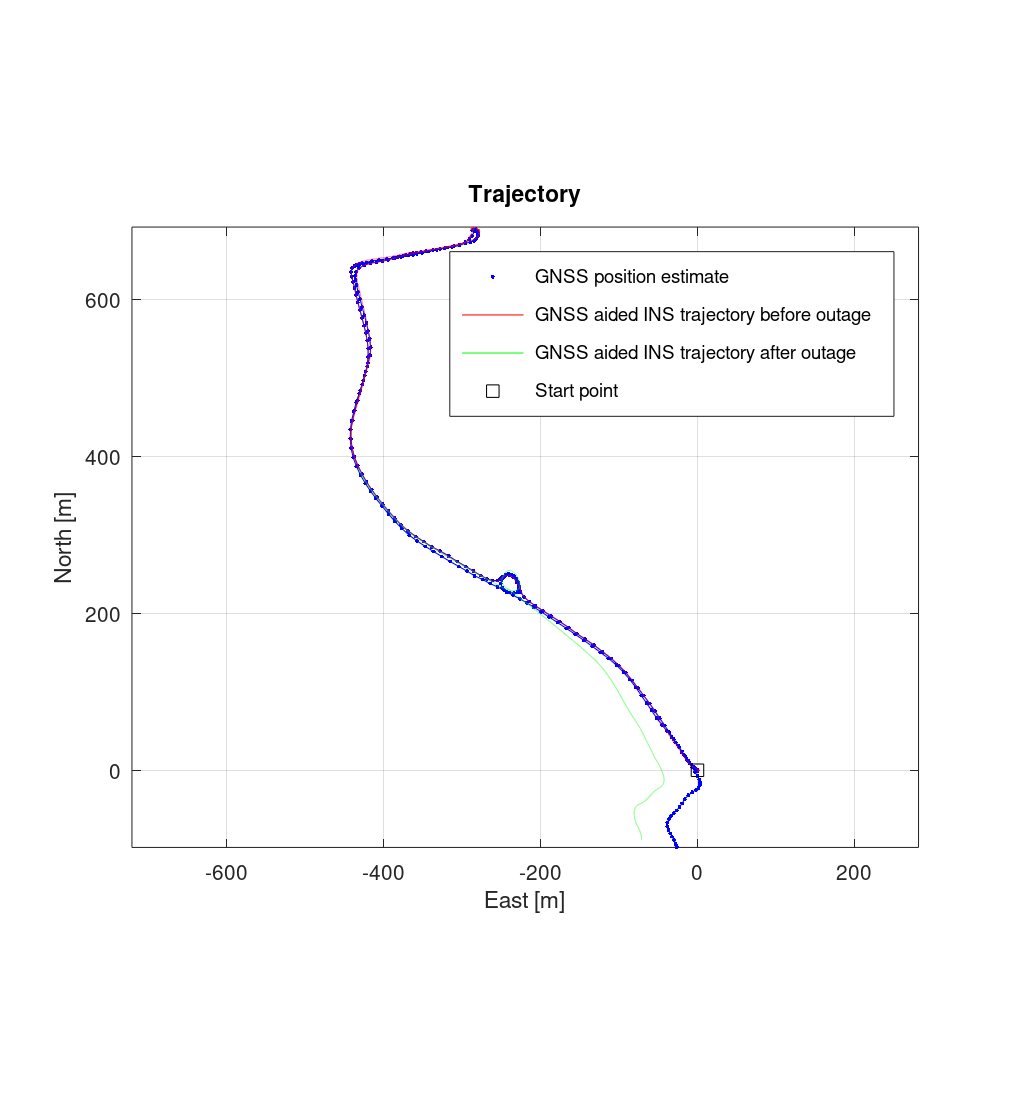
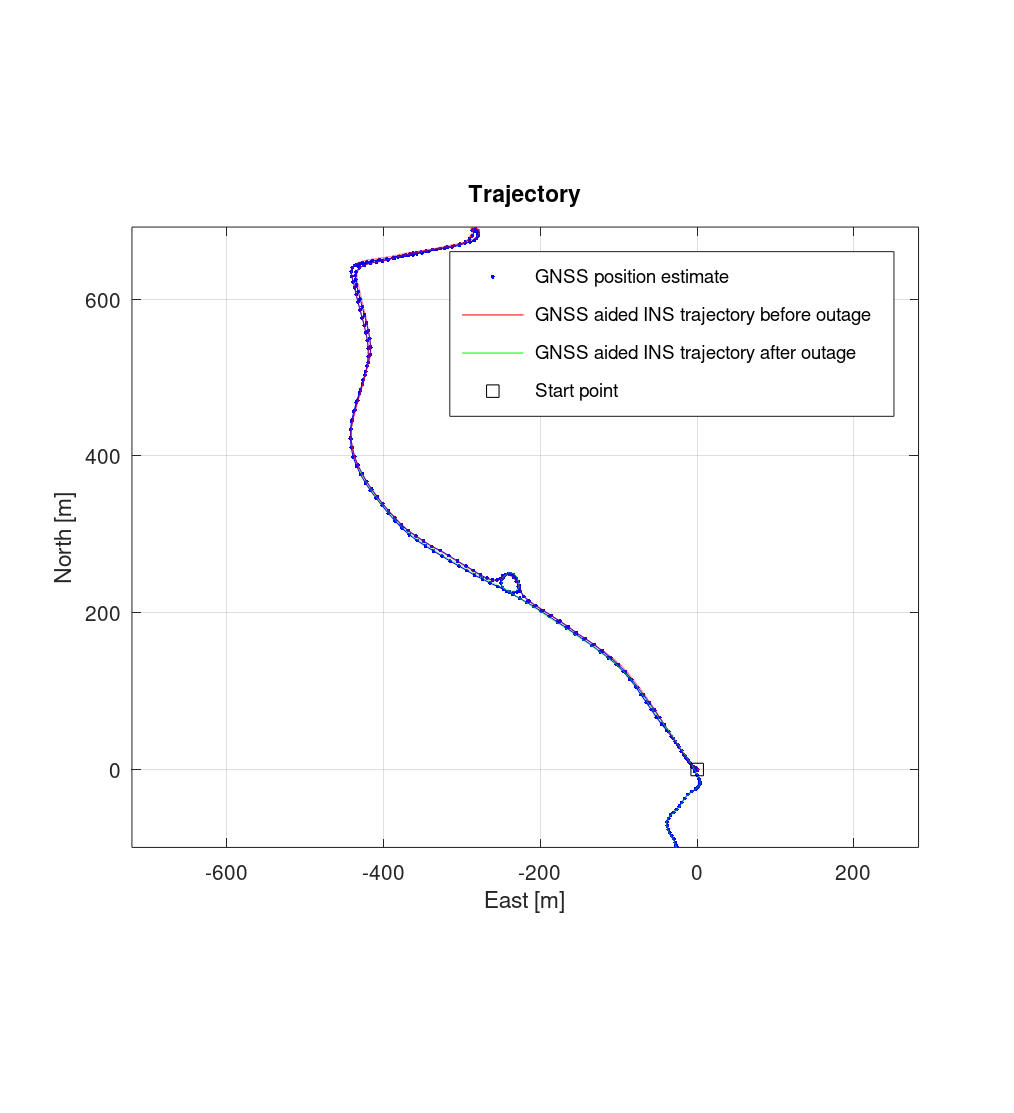
image

diff --git a/src/get_settings.m b/src/get_settings.m
@@ -14,10 +14,10 @@ function settings=get_settings()
 %%%%%%%%%%%%%%%%%%%%%%%%%%%%%%%%%%%%%%%%%%%%%
 %%              GENERAL PARAMETERS         %%
 %%%%%%%%%%%%%%%%%%%%%%%%%%%%%%%%%%%%%%%%%%%%%
-settings.gnss_outage = 'on';
+settings.gnss_outage = 'off';
 settings.outagestart = 200; settings.outagestop = Inf;
-settings.non_holonomic = 'on';
-settings.speed_aiding = 'on';
+settings.non_holonomic = 'off';
+settings.speed_aiding = 'off';
 
 settings.init_heading = 320*pi/180;
 
